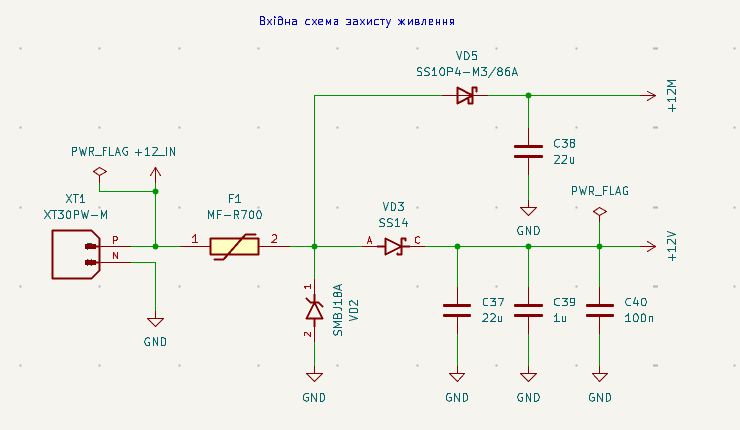
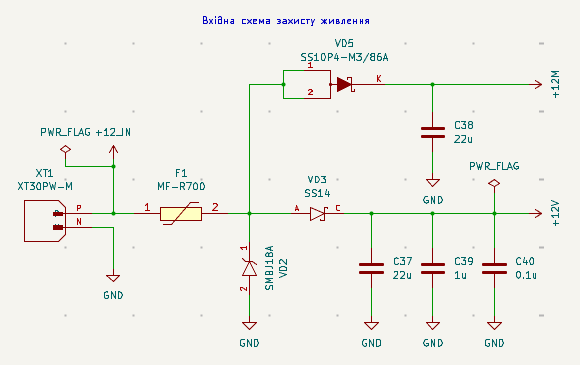
feat(hw10): add custom SS10P4 library with symbol and footprint details in documentation

diff --git a/assignments/homework_10/README.md b/assignments/homework_10/README.md
@@ -251,8 +251,14 @@ power-символами:
 
 PWR_FLAG стоїть на мережах +12_IN і +12V. Вони позначають для ERC джерела живлення, бо роз'єм і діоди мають пасивні виводи.
 
-Для всіх імпортованих компонентів (XT1, F1, VD2, VD3, U4, L1, VR1) додано власні бібліотеки символів і посадкових місць
-у `lib/parts/`. VD5 використовує стандартний символ `Device:D_Schottky` з футпринтом `Package_TO_SOT_SMD:TO-277A`.
+Для всіх імпортованих компонентів (XT1, F1, VD2, VD3, VD5, U4, L1, VR1) додано власні бібліотеки символів і посадкових місць
+у `lib/parts/`. Бібліотеку VD5 (SS10P4) створено вручну за даташитом Vishay:
+- символ має три виводи, як у даташиті: K (катод), 1 і 2 (аноди, з'єднані всередині корпусу);
+- посадкове місце `SS10P4:SMPC_TO-277A` взято зі стандартного KiCad `TO-277A` (збігається з Mounting Pad Layout даташиту),
+  пади перейменовано на 1, 2, K - кожен пін символу відповідає одному паду;
+- на схемі обидва аноди підключені до виходу F1, катод - до +12M.
+
+![Корпус і виводи SS10P4 (з даташиту Vishay)](images/Vishay-SS10P4-schema.png)
 
 ![Схема живлення](images/POWER/Power.png)
 

diff --git a/assignments/homework_10/checklist.md b/assignments/homework_10/checklist.md
@@ -31,10 +31,13 @@
 ## Схема (KiCad)
 
 - [x] ✅ **Нові компоненти в `lib/parts/`, datasheet у маніфесті.**
-  У `lib/parts/` додано 7 бібліотек: AZ1117CH-3.3TRG1, LMR51610XDBVR,
-  XAL6060-333MEC, XT30PW-M, MF-R700, SMBJ18A, SS14.
-  - **VD5 (SS10P4-M3/86A)** використовує стандартний символ `Device:D_Schottky` з
-    футпринтом `Package_TO_SOT_SMD:TO-277A`.
+  У `lib/parts/` додано 8 бібліотек: AZ1117CH-3.3TRG1, LMR51610XDBVR,
+  XAL6060-333MEC, XT30PW-M, MF-R700, SMBJ18A, SS14, SS10P4.
+  - **VD5 (SS10P4-M3/86A)**: власний символ із трьома виводами як у даташиті
+    (K, 1, 2) і футпринт `SS10P4:SMPC_TO-277A` з падами 1, 2, K. За нетлистом
+    K — на +12M, 1 і 2 — на виході F1. До заміни VD5 стояв `Device:D_Schottky`
+    (піни 1 = K, 2 = A) з футпринтом `TO-277A`, де пади 1 і 2 — аноди, а
+    катод — пад 3. Тож катод на платі лишився б не підключеним, а ERC такого не ловить.
   - **Datasheets.** Усі 8 є в
     [`datasheets.txt`](../../motor-drive-controller/hardware/datasheets/datasheets.txt),
     у VD5 заповнено поле Datasheet.
